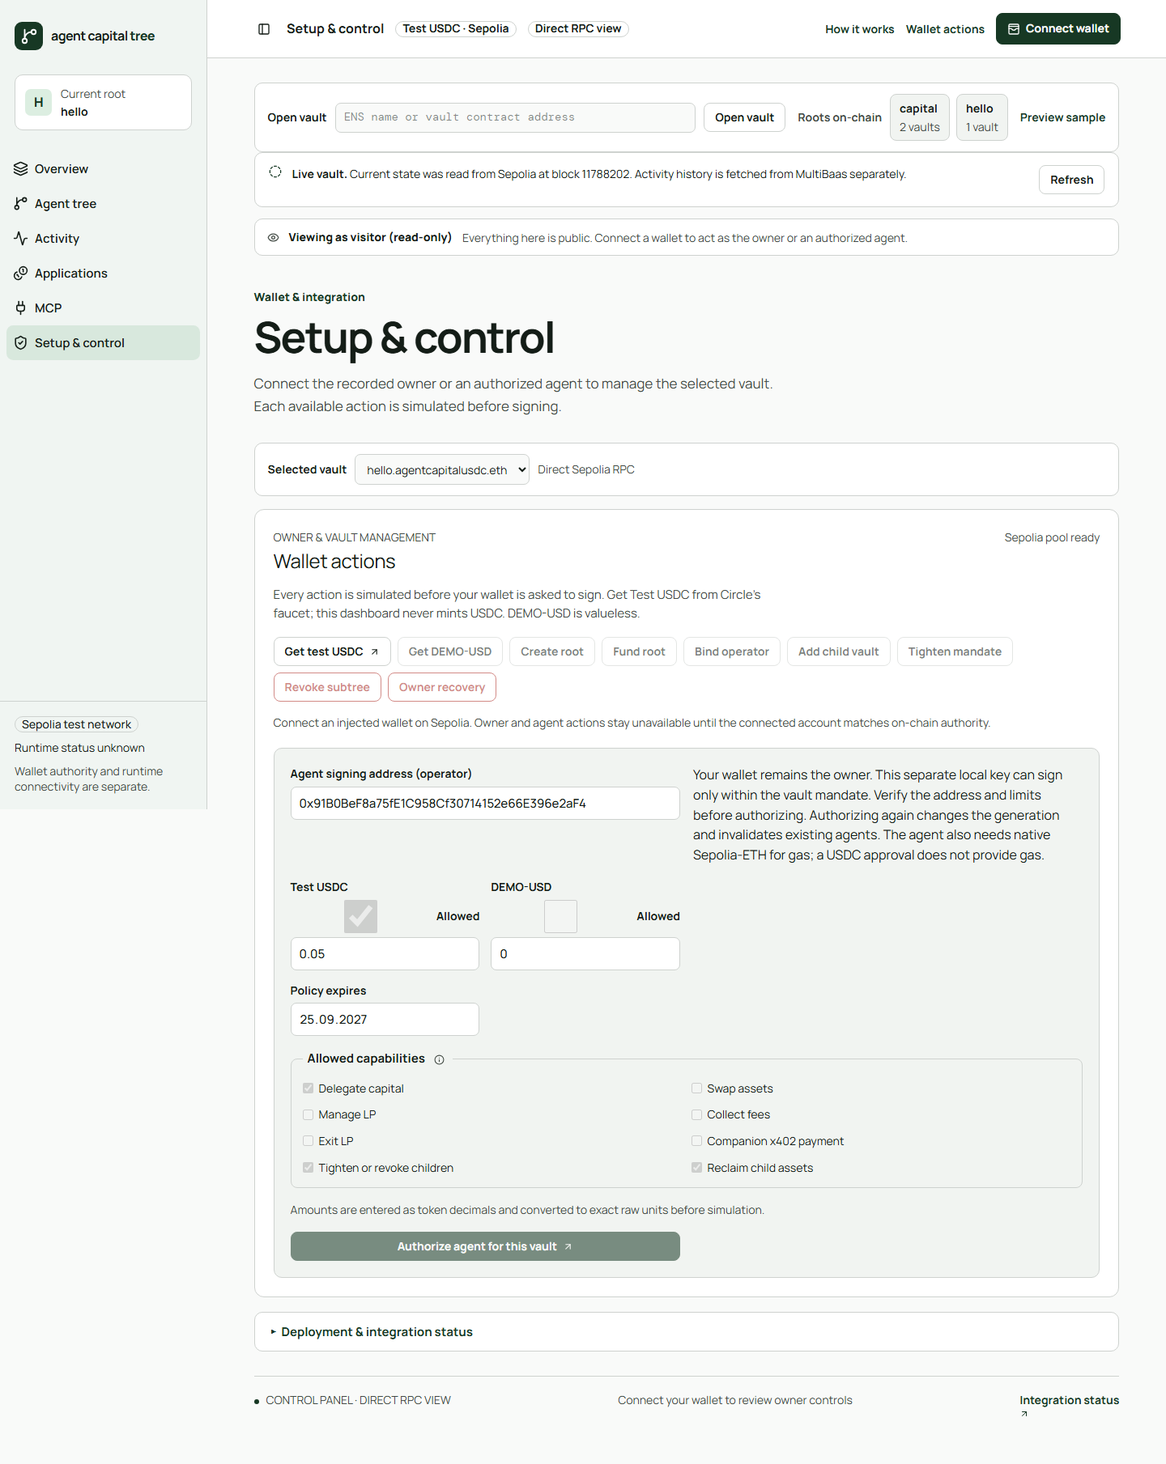
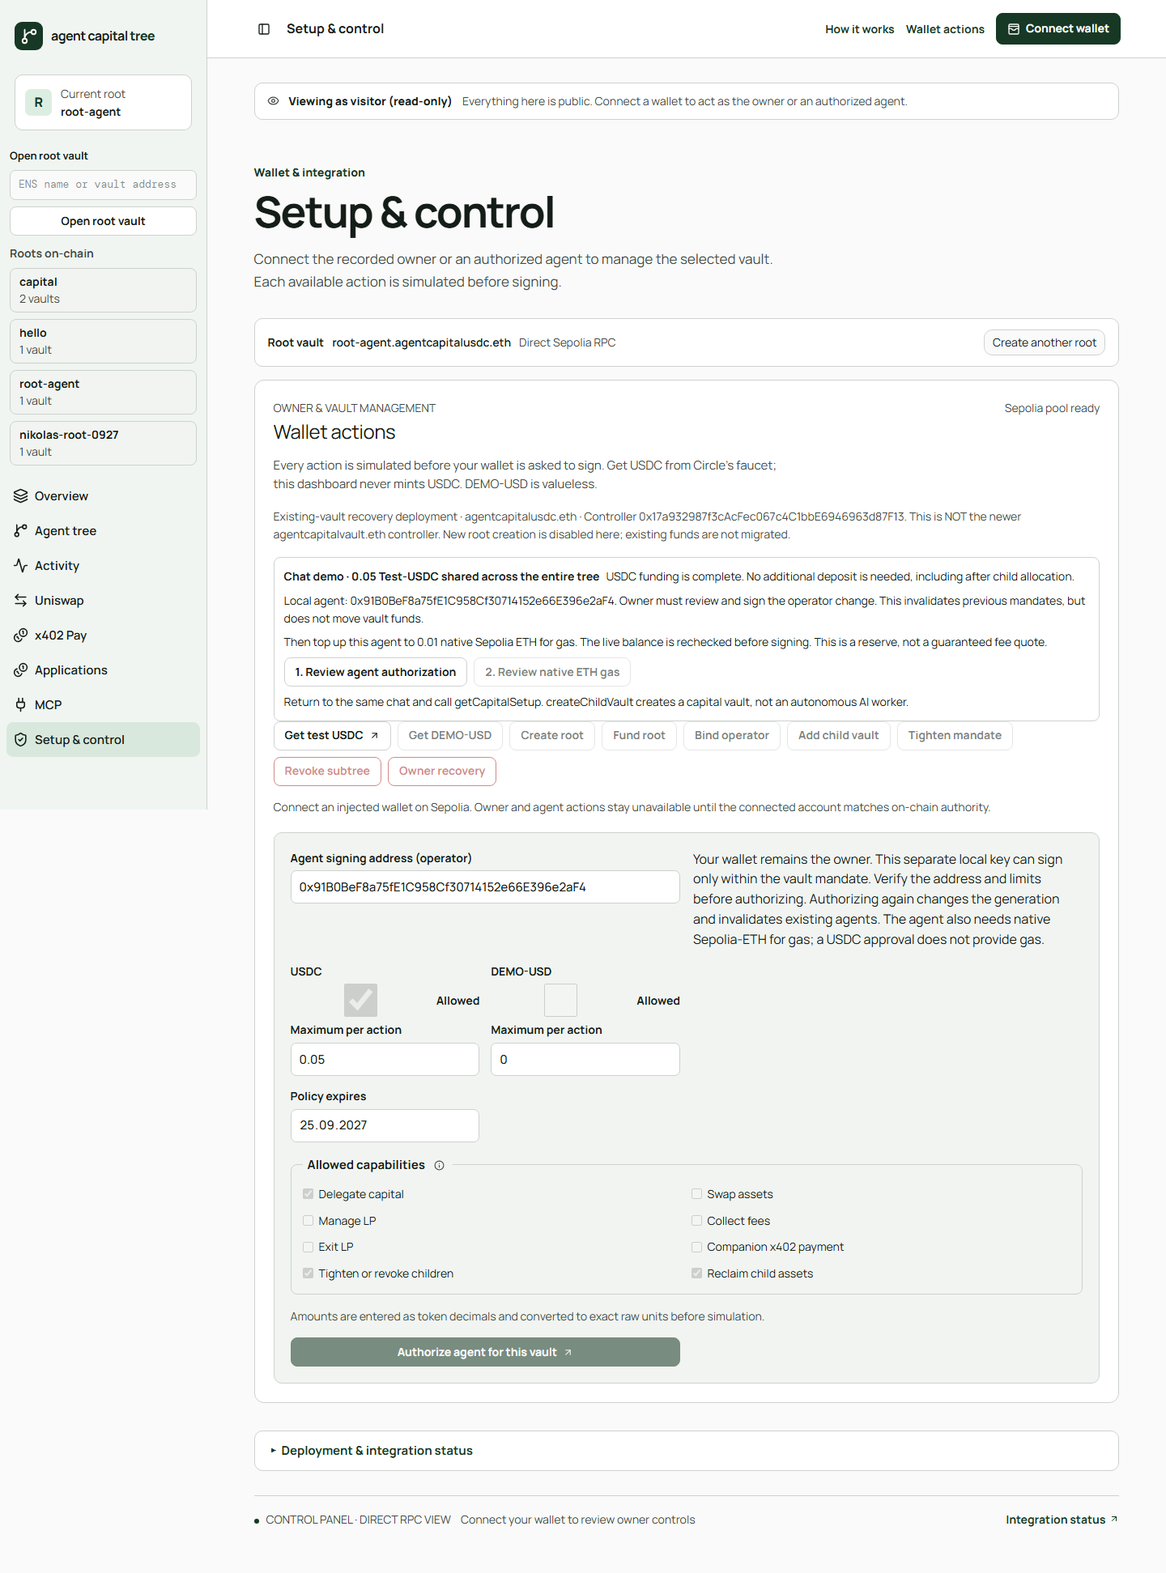
fix(web): group owner recovery and prevent duplicate demo funding
Keep historical root recovery scoped to its controller, recheck shared capital before funding, and expose explicit owner-reviewed native gas top-ups. Preserve the current root creation experience. Verified production build and live read-only desktop/mobile smoke.

diff --git a/apps/web/src/components/wallet-controls.tsx b/apps/web/src/components/wallet-controls.tsx
@@ -20,6 +20,7 @@ export type WalletActionMode =
   | "create-root"
   | "fund-root"
   | "set-root-operator"
+  | "fund-operator-gas"
   | "spawn-child"
   | "tighten-policy"
   | "revoke-subtree"
@@ -285,8 +286,11 @@ export function WalletControlsPanel({
     ? parentAgentConnected
     : ownerConnected;
   const selectedAgentConnected = Boolean(liveStateReady && walletAddress && walletOnSepolia && selectedNode.agentAddress.toLowerCase() === walletAddress.toLowerCase());
-  const canCreateRoot = deployment.contractsConfigured && walletOnSepolia && walletAddress !== null && Boolean(actions.createRoot);
+  const canCreateRoot = !deployment.recoveryOnly && deployment.contractsConfigured && walletOnSepolia && walletAddress !== null && Boolean(actions.createRoot);
   const canManageRoot = ownerConnected && Boolean(actions.fundRoot && actions.setRootOperator);
+  const treeUsdcRaw = data.nodes.reduce((total, node) => total + BigInt(node.tokenHoldings[0]?.rawAmount ?? "0"), 0n);
+  const demoAlreadyFunded = Boolean(demoBudget && liveStateReady && data.source === "direct-rpc" && treeUsdcRaw >= BigInt(demoBudget));
+  const agentMatches = Boolean(setupOperator && data.rootOperator?.toLowerCase() === setupOperator.toLowerCase());
   const canSpawn = selectedNode.state === "active" && selectedNode.authorizedPermissions.includes("delegate") && data.source === "direct-rpc" && data.contractsConfigured && selectedAgentConnected && Boolean(actions.spawnChild);
   const canTighten = selectedNode.state !== "revoked" && selectedNode.state !== "expired" && data.source === "direct-rpc" && data.contractsConfigured &&
     (selectedNode.parentId ? parentAgentConnected && Boolean(selectedParent?.authorizedPermissions.includes("restrict")) : ownerConnected) && Boolean(actions.tightenPolicy);
@@ -342,6 +346,18 @@ export function WalletControlsPanel({
         </span>}
       </div>
       {creationOnly ? <p className="wallet-controls-intro">Your connected wallet will own this vault. Choose its public name and the limits for your agents, then confirm creation in your wallet. You only need Sepolia ETH for the network fee now. Add USDC and authorize an agent from the dashboard afterwards.</p> : <p className="wallet-controls-intro">Every action is simulated before your wallet is asked to sign. Get USDC from Circle’s faucet; this dashboard never mints USDC. DEMO-USD is valueless.</p>}
+      {deployment.recoveryOnly && <p className="wallet-controls-pending">Existing-vault recovery deployment · {deployment.namespaceName} · Controller {deployment.controllerAddress}. This is NOT the newer agentcapitalvault.eth controller. New root creation is disabled here; existing funds are not migrated.</p>}
+      {demoBudget && <div className="wallet-action-notice" role="status">
+        <strong>Chat demo · {budgetUSDC} Test-USDC shared across the entire tree</strong>
+        <span>{demoAlreadyFunded ? "USDC funding is complete. No additional deposit is needed, including after child allocation." : "Fund only the remaining difference after root creation. Child budgets come from this same capital."}</span>
+        {setupOperator ? <><span>Local agent: {setupOperator}. {agentMatches ? "Onchain binding matches." : "Owner must review and sign the operator change. This invalidates previous mandates, but does not move vault funds."}</span>
+          <span>Then top up this agent to 0.01 native Sepolia ETH for gas. The live balance is rechecked before signing. This is a reserve, not a guaranteed fee quote.</span>
+          <div className="wallet-action-shortcuts">
+            <button type="button" className="button button-secondary button-small" disabled={busy || agentMatches} onClick={() => toggle("set-root-operator")}>1. Review agent authorization</button>
+            <button type="button" className="button button-secondary button-small" disabled={busy || !agentMatches} onClick={() => toggle("fund-operator-gas")}>2. Review native ETH gas</button>
+          </div></> : <span>After root creation, return to chat: selectCapitalRoot with this ENS, then prepareCapitalSetup. Do not bind your owner wallet as the MCP signer.</span>}
+        <span>Return to the same chat and call getCapitalSetup. createChildVault creates a capital vault, not an autonomous AI worker.</span>
+      </div>}
       {!creationOnly && <div className="wallet-action-shortcuts">
         <a className="button button-secondary button-small" href="https://faucet.circle.com/" target="_blank" rel="noreferrer">Get test USDC <ArrowUpRight size={13} aria-hidden="true" /></a>
         {deployment.demoQuoteAddress && <button className="button button-secondary button-small" type="button" disabled={!walletAddress || !walletOnSepolia || busy || !actions.claimDemoQuote} onClick={() => void actions.claimDemoQuote?.().catch(() => undefined)}>Get DEMO-USD</button>}
@@ -392,7 +408,7 @@ export function WalletControlsPanel({
       {mode === "fund-root" && (
         <form className="wallet-action-form" onSubmit={(event) => {
           event.preventDefault();
-          void actions.fundRoot?.(data.rootId, fundAmounts).catch(() => undefined);
+          void actions.fundRoot?.(data.rootId, fundAmounts, demoBudget ?? undefined).catch(() => undefined);
         }}>
           <p className="wallet-form-context">Fund <strong>{data.nodes.find((node) => node.depth === 0)?.ensName ?? "the selected root"}</strong> from the recorded root-owner wallet. Each approval is exact to the entered amount.</p>
           <div className="wallet-form-grid wallet-form-grid-two">
@@ -403,9 +419,19 @@ export function WalletControlsPanel({
               </label>
             ))}
           </div>
-          <button className="button button-primary button-small" type="submit" disabled={!canManageRoot || busy}>Approve and fund root <ArrowUpRight size={13} aria-hidden="true" /></button>
+          <button className="button button-primary button-small" type="submit" disabled={!canManageRoot || busy || demoAlreadyFunded}>{demoAlreadyFunded ? "Demo funding already complete" : "Approve and fund root"} <ArrowUpRight size={13} aria-hidden="true" /></button>
         </form>
       )}
+
+      {mode === "fund-operator-gas" && <form className="wallet-action-form" onSubmit={(event) => {
+        event.preventDefault();
+        if (setupOperator) void actions.fundOperatorGas?.(data.rootId, setupOperator).catch(() => undefined);
+      }}>
+        <p className="wallet-form-context">Send native <strong>Sepolia ETH</strong> from the owner wallet to the bound local signer. Only the difference up to <strong>0.01 ETH</strong> is requested. This is separate from the 0.10 Test-USDC vault budget. No USDC approval is involved.</p>
+        <label className="wallet-field"><span>Bound local signer · verify this address</span><input value={setupOperator ?? "No local signer provided"} readOnly /></label>
+        <p className="field-help">Unused gas stays with this local key. The MCP estimates fees again before each child transaction. If this page is stale or binding differs, the transaction is blocked.</p>
+        <button type="submit" className="button button-primary button-small" disabled={!canManageRoot || !agentMatches || !actions.fundOperatorGas || busy}>Review gas top-up in wallet</button>
+      </form>}
 
       {mode === "set-root-operator" && (
         <PolicyFields

diff --git a/apps/web/src/lib/use-wallet-actions.ts b/apps/web/src/lib/use-wallet-actions.ts
@@ -328,6 +328,7 @@ export function useWalletActions({
     },
 
     async createRoot(label, draft) {
+      if (deployment.recoveryOnly) throw new Error("This deployment is only for existing-vault recovery. Create new roots on the current canonical app.");
       const normalizedLabel = label.trim().toLowerCase();
       if (!/^[a-z0-9](?:[a-z0-9-]{0,61}[a-z0-9])?$/.test(normalizedLabel)) {
         throw new Error("Use a lowercase ENS label with letters, numbers, or interior hyphens.");
@@ -357,7 +358,7 @@ export function useWalletActions({
       return created.args.vault;
     },
 
-    async fundRoot(rootId, amountInputs) {
+    async fundRoot(rootId, amountInputs, demoTotalBudgetRaw) {
       if (busy.current) throw new Error("Another wallet action is still in progress.");
       busy.current = true;
       try {
@@ -369,6 +370,22 @@ export function useWalletActions({
           parseUnits(amountInputs[1].trim() || "0", decimals[1]),
         ];
         if (amounts[0] === 0n && amounts[1] === 0n) throw new Error("Enter a positive amount for at least one token.");
+
+        const checkDemoFunding = async () => {
+          if (demoTotalBudgetRaw === undefined) return; // The demo cap is NOT a general contract balance limit.
+          if (!/^[1-9]\d{0,5}$/.test(demoTotalBudgetRaw) || BigInt(demoTotalBudgetRaw) > 100000n) throw new Error("Demo total budget must be at most 100000 raw units = 0.10 Test-USDC.");
+          const blockNumber = await context.publicClient.getBlockNumber();
+          const ids = await context.publicClient.readContract({ address: context.controller, abi: capitalControllerAbi, functionName: "getRootNodeIds", args: [BigInt(rootId)], blockNumber });
+          let total = 0n;
+          for (const id of ids) {
+            const node = await context.publicClient.readContract({ address: context.controller, abi: capitalControllerAbi, functionName: "getNode", args: [id], blockNumber });
+            total += await context.publicClient.readContract({ address: context.tokens[0], abi: erc20Abi, functionName: "balanceOf", args: [node.vault], blockNumber });
+          }
+          const missing = BigInt(demoTotalBudgetRaw) > total ? BigInt(demoTotalBudgetRaw) - total : 0n;
+          if (missing === 0n) throw new Error("This tree is already funded to the requested demo total. No additional deposit or approval is needed.");
+          if (amounts[1] !== 0n || amounts[0] > missing) throw new Error(`Only ${missing} raw Test-USDC units are still missing across this tree. Do not fund the budget again for each child.`);
+        };
+        await checkDemoFunding();
 
         for (const index of [0, 1] as const) {
           if (amounts[index] === 0n) continue;
@@ -394,6 +411,7 @@ export function useWalletActions({
         }
 
         await submitWithContext(context, "Fund root vault", async (tx, awaitingWallet) => {
+          await checkDemoFunding(); // Re-read after any wallet approval; do not reuse stale balances.
           const { request } = await tx.publicClient.simulateContract({
             account: tx.account,
             address: tx.controller,
@@ -410,6 +428,23 @@ export function useWalletActions({
       } finally {
         busy.current = false;
       }
+    },
+
+    async fundOperatorGas(rootId, operatorInput) {
+      if (!isAddress(operatorInput)) throw new Error("Expected the prepared local agent address.");
+      const operator = getAddress(operatorInput);
+      await transact("Top up local agent gas", async (context, awaitingWallet) => {
+        await requireOwner(context, rootId);
+        const bound = await context.publicClient.readContract({ address: context.controller, abi: capitalControllerAbi, functionName: "rootOperator", args: [BigInt(rootId)] });
+        if (bound.toLowerCase() !== operator.toLowerCase() || operator === zeroAddress) throw new Error("Authorize this exact local agent for this root before funding its gas.");
+        const balance = await context.publicClient.getBalance({ address: operator });
+        const reserve = 10_000_000_000_000_000n; // 0.01 native Sepolia ETH; not a fee guarantee.
+        if (balance >= reserve) throw new Error("The local agent already has at least 0.01 Sepolia ETH. No top-up is needed.");
+        const value = reserve - balance;
+        const gas = await context.publicClient.estimateGas({ account: context.account, to: operator, value });
+        awaitingWallet();
+        return context.walletClient.sendTransaction({ account: context.account, chain: sepolia, to: operator, value, gas });
+      });
     },
 
     async setRootOperator(rootId, operatorInput, draft) {

diff --git a/apps/web/src/components/mcp-panel.tsx b/apps/web/src/components/mcp-panel.tsx
@@ -74,7 +74,9 @@ pnpm mcp:capital settings ${demoRoot} --enable-sepolia-writes`;
         <div className="panel-heading"><span className="panel-overline">Recommended demo</span><h2 id="mcp-capital-title">Authorize once. Manage capital in chat.</h2></div>
         <p>Build the SDK and plugin with the commands below first, then use capital mode. It starts the local signing companion automatically. No private JSON configuration, CLIProxyAPI account or separate companion terminal.</p>
         <CopyBlock code={capitalSnippet} label="Capital demo setup — Linux or Windows with WSL2 and Node 22+" />
-        <p>Add the printed STDIO entry in Codex or Claude settings and restart that MCP once. The capital connection exposes 21 tools, including <code>getCapitalSetup</code>, <code>prepareCapitalSetup</code> and <code>createChildVault</code>. Use one Capital Tree connection for the demo.</p>
+        <p>Add the printed STDIO entry in Codex or Claude settings and restart that MCP once after updating its code. The capital connection exposes 23 tools. Use <code>selectCapitalRoot</code> to choose a confirmed root inside the same session; a tree read never changes the write target. No restart is needed for that selection.</p>
+        <p>Flow: create root in your normal wallet browser → select its ENS in chat → <code>getCapitalSetup</code> → <code>prepareCapitalSetup</code> → review wallet authorization and remaining funding/gas → create child vaults. If the root is bound to your owner wallet instead of the local signer, <code>prepareOperatorRecovery</code> prepares an explicit owner-reviewed change; it never replaces the operator automatically.</p>
+        <p>The demo input maximum is <strong>100000 raw units = 0.10 Test-USDC for the entire tree</strong>, not per child and not a contract balance cap. Two child vaults with 20000 raw units each leave 60000 at the root. Existing deposits are counted; do not fund again. Native Sepolia ETH for the local signer is separate. <code>createChildVault</code> launches no autonomous model process.</p>
         <p>Your wallet remains owner. It authorizes a separate local agent signing key once, with explicit vault limits. The agent needs native Sepolia-ETH for gas as well as Test-USDC in the vault. Wallet login or USDC approval alone is not that authorization or gas payment.</p>
         <p>Ask the chat to check all requirements, then create a child vault, delegate a small budget, show the tree, restrict/revoke and reclaim. <code>createChildVault</code> does not launch an autonomous model worker. Autonomous <code>spawnChild</code> also needs Docker and a model credential; the preferred setup uses a private OpenAI API key and works without CLIProxyAPI.</p>
       </section>

diff --git a/apps/web/src/lib/deployment.ts b/apps/web/src/lib/deployment.ts
@@ -1,9 +1,11 @@
 import { getAddress, isAddress, type Address, type Hex } from "viem";
 import usdcSepoliaManifest from "../../../../deployments/usdc-sepolia.json";
+import recoveryManifest from "../../../../deployments/history/usdc-full-vaults-sepolia.json";
 
 const USDC_ADDRESS = "0x1c7D4B196Cb0C7B01d743Fbc6116a902379C7238";
 
 export interface PublicDeployment {
+  recoveryOnly?: boolean;
   id: "usdc";
   paymentsSupported: boolean;
   demoQuoteAddress: Address | null;
@@ -37,7 +39,9 @@ function pickAddress(values: readonly unknown[]): Address | null {
 }
 
 export function getPublicDeployment(): PublicDeployment {
-  const manifest = usdcSepoliaManifest as unknown as DeploymentManifest;
+  // Explicit deployment-scoped recovery site only. Never infer a controller from a numeric root ID.
+  const recoveryOnly = process.env.ACT_USDC_RECOVERY_DEPLOYMENT === "full-vaults";
+  const manifest = (recoveryOnly ? recoveryManifest : usdcSepoliaManifest) as unknown as DeploymentManifest;
   const controllerAddress = pickAddress([manifest.contracts.CapitalController?.address]);
   const token0 = pickAddress([manifest.tokens?.[0]?.address]);
   const token1 = pickAddress([manifest.tokens?.[1]?.address]);
@@ -57,6 +61,7 @@ export function getPublicDeployment(): PublicDeployment {
 
   return {
     id: "usdc",
+    recoveryOnly,
     paymentsSupported: contractsConfigured && usdcAtIndexZero,
     demoQuoteAddress: contractsConfigured ? demoQuoteAddress : null,
     chainId: manifest.chainId,

diff --git a/apps/web/src/lib/dashboard-page.tsx b/apps/web/src/lib/dashboard-page.tsx
@@ -12,7 +12,7 @@ export async function renderDashboard(view: DashboardView, searchParams: Dashboa
   const deployment = getPublicDeployment();
   const vault = params.preview === "1" ? null : typeof params.vault === "string" ? params.vault : null;
   const node = typeof params.node === "string" ? params.node : null;
-  const actions = ["create-root", "fund-root", "set-root-operator", "spawn-child", "tighten-policy", "revoke-subtree", "owner-recovery"] as const;
+  const actions = ["create-root", "fund-root", "set-root-operator", "fund-operator-gas", "spawn-child", "tighten-policy", "revoke-subtree", "owner-recovery"] as const;
   const action = typeof params.action === "string" && actions.some((candidate) => candidate === params.action) ? params.action as (typeof actions)[number] : null;
   const tour = params.tour === "1";
   const parsedStep = typeof params.step === "string" ? Number.parseInt(params.step, 10) : NaN;

diff --git a/apps/web/src/lib/dashboard-types.ts b/apps/web/src/lib/dashboard-types.ts
@@ -191,7 +191,8 @@ export interface DashboardData {
 export interface DashboardActions {
   claimDemoQuote?: () => Promise<void>;
   createRoot?: (label: string, policy: PolicyDraft) => Promise<string>;
-  fundRoot?: (rootId: string, amounts: readonly [string, string]) => Promise<void>;
+  fundRoot?: (rootId: string, amounts: readonly [string, string], demoTotalBudgetRaw?: string) => Promise<void>;
+  fundOperatorGas?: (rootId: string, operator: string) => Promise<void>;
   setRootOperator?: (rootId: string, operator: string, policy: PolicyDraft) => Promise<void>;
   spawnChild?: (parentId: string, label: string, agent: string, policy: PolicyDraft, amounts: readonly [string, string]) => Promise<string>;
   tightenPolicy?: (nodeId: string, policy: PolicyDraft) => Promise<void>;

diff --git a/apps/web/src/app/api/payments/route.ts b/apps/web/src/app/api/payments/route.ts
@@ -18,6 +18,7 @@ export async function GET(request: Request) {
   const root = new URL(request.url).searchParams.get("root") ?? "";
   if (!/^[1-9]\d{0,77}$/.test(root)) return reply({ error: "Enter a valid root ID." }, 400);
   const deployment = getPublicDeployment();
+  if (deployment.recoveryOnly) return reply({ error: "Payment history is unavailable on the existing-vault recovery site. Use canonical receipts for this controller." }, 503);
   const rpcUrl = process.env.SEPOLIA_RPC_URL;
   const startBlock = BigInt(manifest.contracts.CapitalController.blockNumber);
   const usdc = deployment.tokenAddresses?.[0];

diff --git a/PLAN.md b/PLAN.md
@@ -18,7 +18,7 @@ The owner wallet authorizes a separate local operator once. The capital-mode MCP
 
 For an autonomous child, use `spawnChild` with an explicit model, task, allocation and narrower mandate. Docker and a configured native Codex host are required. The preferred worker inference path uses a private OpenAI API key with `gpt-6-luna` / `high`; ChatGPT login is an alternative and CLIProxyAPI is optional when explicitly configured. The live funded API-key E2E is recorded in ACCEPTANCE.md. No automatic Codex subagent hook creates onchain custody.
 
-`pnpm mcp:capital` starts and manages the local capital companion on Linux or WSL2, reuses private state and exposes 21 tools, including setup/read helpers. The base companion has 17 tools; the keyless read-only server has three. Every MCP response carries a locally rendered dashboard PNG and a Mermaid fallback without repeating a chain read or write. Large trees split into pages from one snapshot. The host must support local image display; MCP delivery alone does not prove a desktop GUI renders the image. `prepareRootSetup` opens the normal wallet browser for review but never signs a transaction.
+`pnpm mcp:capital` starts and manages the local capital companion on Linux or WSL2, reuses private state and exposes 23 tools, including setup/read helpers. The base companion has 17 tools; the keyless read-only server has three. Every MCP response carries a locally rendered dashboard PNG and a Mermaid fallback without repeating a chain read or write. Large trees split into pages from one snapshot. The host must support local image display; MCP delivery alone does not prove a desktop GUI renders the image. `prepareRootSetup` opens the normal wallet browser for review but never signs a transaction.
 
 The read-only MCP works without a signer or Docker on supported Node hosts. Its keyless installation tests use disposable profiles and verify a live Sepolia tree. The public dashboard independently reads Sepolia; it cannot observe a local STDIO MCP session without explicit pairing. Financial writes on a new external jury laptop, native macOS signing, ChatGPT-login worker E2E and Claude Code financial E2E remain acceptance gates. Avoid repeating completed seed, payment and worker transactions.
 

diff --git a/STATUS.md b/STATUS.md
@@ -9,6 +9,7 @@ As of 26 September 2026. Read this together with PLAN.md after context compactio
 
 ## Active onboarding repair — main only
 
+- Wallet recovery UI production build and TypeScript passed. The local live-root smoke passed at 1440px and 390px: address/limit prefills, complete-funding lockout, separate native gas handoff, disconnected-wallet guards, no overflow or page errors. Evidence: `artifacts/ui/capital-web-report.json`; no wallet connected or transaction submitted. Preserved concurrently merged root-creation guidance and suggested names.
 - User requested all new commits on main. Integration is in isolated `.main-onboarding`, based on `d3b6655`; original dirty checkout and nested user clone are preserved. Native worker features and current deployment from main are retained. No new commit or push was made to work/rami.
 - Re-read historical-controller root 4 at Sepolia block 11788300: vault `0xC9c7926191b7928F838579D74CdA380A66A8CD9A`, 100000 raw Test-USDC, owner/bound operator `0x4E09c220BD556396Bc255A4DD24F858Bafeba6f5`, no matching local signer. The previous gas value belonged to the owner, not a local agent. No transaction submitted.
 - Implemented explicit root selection, required write target, guarded owner-reviewed recovery, safe budget/lookup errors, local-signer gas reporting, shared-capital funding accounting, graphical readiness and pre-broadcast child fee checking. Capital catalog is 23 tools; vault creation still reports no worker. Explicit historical recovery mode prevents collision with the newer controller's root 4.
